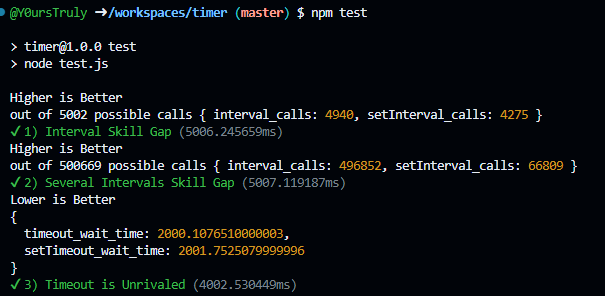
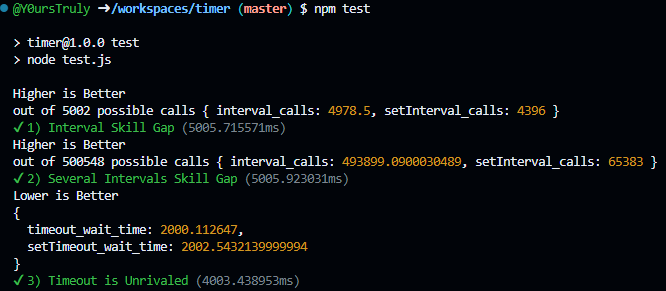
added proof of fractional in 100 intervals (test 2) 98.67% accurate to real time

diff --git a/test.js b/test.js
@@ -4,7 +4,7 @@ const test=require('node:test'), assert=require('node:assert'), timer=require('.
   await test("1) Interval Skill Gap",async function(){
     let resolve=null, p=new Promise(r=>resolve=r)
     let p1=0, p2=0, t=performance.now()
-    let t1=timer.interval(_=>p1+=1,1)
+    let t1=timer.interval(_=>p1+=1.5,1.5)
     let t2=setInterval(_=>p2+=1,1)
     setTimeout(_=>{
       assert.ok(p1>p2)
@@ -24,7 +24,7 @@ const test=require('node:test'), assert=require('node:assert'), timer=require('.
     let p1=0, p2=0, t=performance.now()
     let t1=Array(100), t2=Array(100);
     for(let i=0;i<t1.length;i++){
-      t1[i]=timer.interval(_=>p1+=1,1);
+      t1[i]=timer.interval(_=>p1+=1.01,1.01);
       t2[i]=setInterval(_=>p2+=1,1);
     }
     setTimeout(_=>{

diff --git a/README.md b/README.md
@@ -4,9 +4,24 @@ Custom and more accurate setInterval and setTimeout functionality that is not ne
 # Features
 - Roughly 99% accurate _real time_ intervals in JavaScript
 - More precision than a whole millisecond; fractional values supported
-<br>It is more precise in nodejs (>300 per ms ~~at least on a github codespace~~)
-<br>It is less precise in a browser (~10 per ms ~~at least on a chrome tab~~)
-<br>Of course, sub ms timers might lose precision since functions take time to execute (~~tested on codespace for 0.2ms and got 98% precision instead~~)
+
+# Installation
+You can clone this repository for now I guess, coming to [npm](https://npmjs.com) soon
+
+# Modules
+- `interval`: better setInterval, first argument is function, second argument is ms, returns _ID_
+- `timeout`: better setTimeout, first argument is function, second argument is ms, returns _ID_
+- `wait`: all you python `sleep` using kids, your functionality offered by a promise wrapped around `timeout` (tldr; `await wait(ms)`)
+- `clear`: removes any `interval` or `timeout` by _ID_ (eg `clear(timeout(someFN))` is a waste of code since `someFN` will never run)
+
+# Disclaimers
+- It is more precise in nodejs (>300 events per ms ~~at least on a github codespace~~)
+- It is less precise in a browser (~10 events per ms ~~at least on a chrome tab~~)
+- The 2 points above were determined by comparing a 0ms interval to a 1ms interval and the ratio of their calls
+- I will have better documentation for [Modules](#modules)
+- Of course, sub ms timers might lose precision since functions take time to execute (tested on codespace for 0.2ms and got 98% precision instead) so it is recommended to have fractional timer values _greater than_ 1
+- The smaller the fractional part, the less accurate (`1.1 would be more accurate than 2.01`)
 
 # Comparison to Native Modules
+- This section will always be dedicated to displaying the test results of the current commit
 ![test image](image.png)
